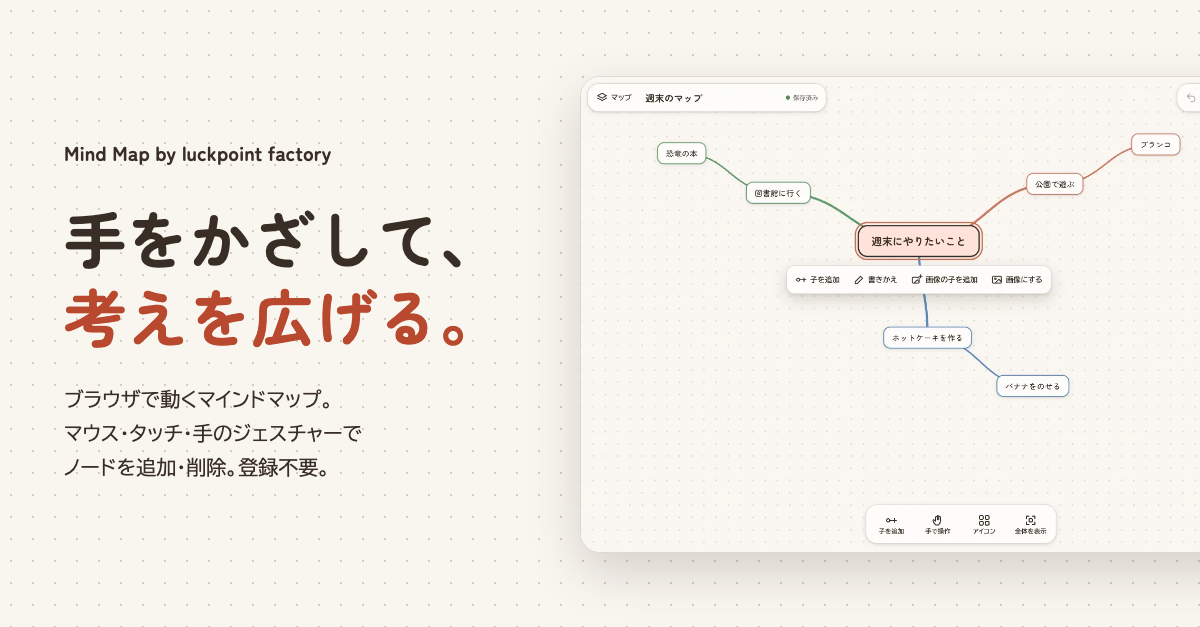
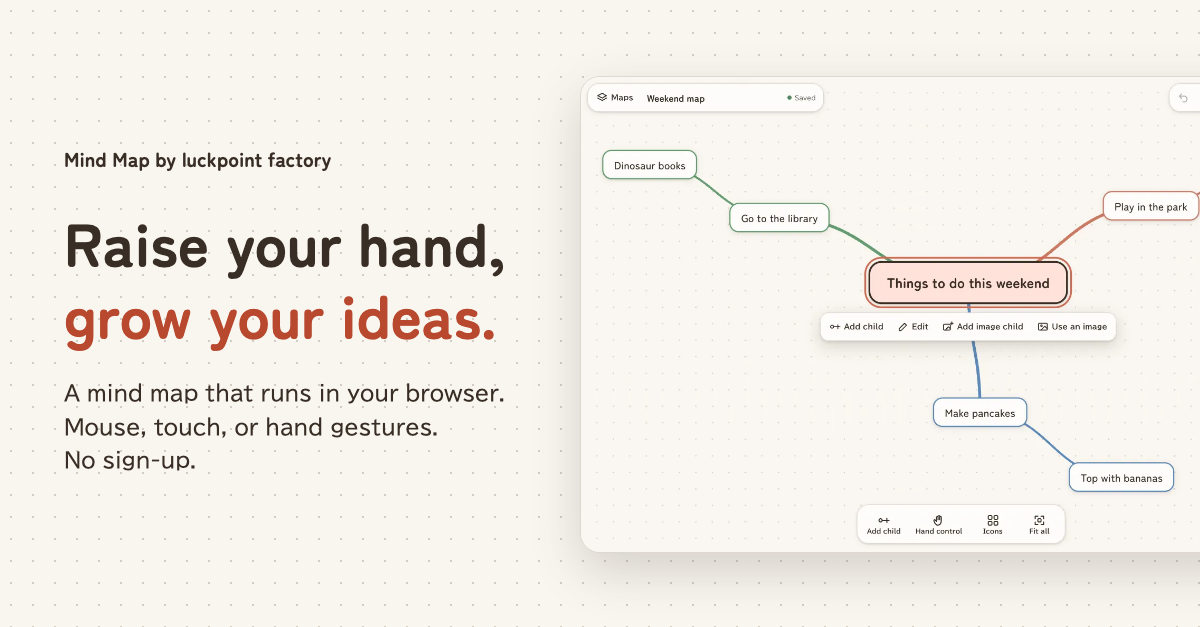
feat(landing): add English OGP and generate /ja/landing for Japanese shares
Japanese literals in landing.html broke the rule that Japanese lives only
in the i18n dictionary. The source page now carries English OGP (the app
default) with og.png, and the static build emits ja/landing.html whose
OGP is filled from the ja dictionary and points at og-ja.png. A base
href keeps the page's relative assets working under /ja/.

diff --git a/ui-prototype/landing.html b/ui-prototype/landing.html
@@ -7,15 +7,15 @@
     <meta name="description" data-i18n-content="landing.description" />
     <meta property="og:type" content="website" />
     <meta property="og:url" content="https://mindmap.luckpoint.jp/landing" />
-    <meta property="og:title" content="手で広げるマインドマップ" />
+    <meta property="og:title" content="A mind map you can grow by hand" />
     <meta
       property="og:description"
-      content="ブラウザで動くマインドマップ。マウスやタッチに加えて、カメラに映した手のジェスチャーでもノードを追加・削除できます。"
+      content="A mind map that runs in your browser. Add and delete nodes with the mouse, touch, or hand gestures in front of your camera."
     />
     <meta property="og:image" content="https://mindmap.luckpoint.jp/landing/og.png" />
     <meta property="og:image:width" content="1200" />
     <meta property="og:image:height" content="627" />
-    <meta property="og:locale" content="ja_JP" />
+    <meta property="og:locale" content="en_US" />
     <meta name="twitter:card" content="summary_large_image" />
     <link rel="preconnect" href="https://fonts.googleapis.com" />
     <link rel="preconnect" href="https://fonts.gstatic.com" crossorigin />
